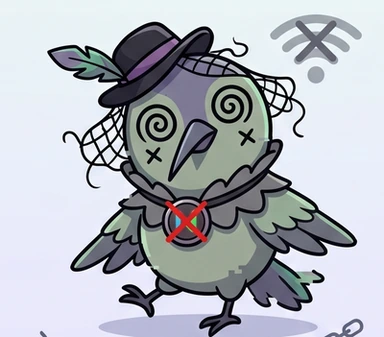
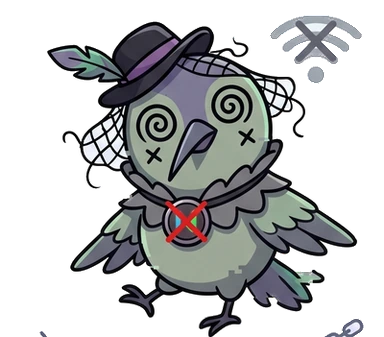
fix(rubri): recortar el fondo de los sprites para el modo oscuro
`happy`, `sad` y `offline` llegaron de diseño opacos, con un fondo pastel claro
y una sombra bajo los pies; solo `neutral` venía recortado. Sobre blanco no se
nota, y sobre el #1A1A16 del tema oscuro tres de los cuatro estados de Rubri
eran un rectángulo pálido y el cuarto no. El estado lo elige el backend y los
cuatro salen del mismo componente, así que la incoherencia aparecía sola al
cambiar de emoción.

`tools/recortar_sprites.py` hace el recorte en tres pasos, y cada uno resuelve
un problema distinto: el fondo es un degradado, así que la inundación compara
cada píxel con su vecino en vez de con un color fijo, y siembra solo desde las
esquinas porque el dibujo toca el borde inferior; la sombra no tiene contorno y
deja un anillo, que se retira contra un ajuste polinómico robusto del degradado
(residuo medio de 1 sobre 255); y el borde suavizado se despeja resolviendo
observado = alfa*trazo + (1-alfa)*fondo, sin lo cual el recorte deja una
aureola clara, que es justo lo que más se ve sobre oscuro.

Los umbrales salen de dos medidas: la inundación se lleva al personaje entero a
partir de 32 y atraviesa los arcos translúcidos del wifi de `offline` a partir
de 24, y el residuo de la sombra frente al fondo predicho es de 16 de mediana
contra 48 en el percentil 10 de esos arcos. De ahí 10 para la inundación y 40
para el crecimiento contra el modelo.

Se conservan opacos los rellenos claros que son dibujo — la malla del velo, el
[…]

diff --git a/tools/recortar_sprites.py b/tools/recortar_sprites.py
@@ -1,0 +1,232 @@
+#!/usr/bin/env python3
+"""Recorta el fondo de los sprites de Rubri y los deja listos para los dos clientes.
+
+Tres de los cuatro sprites llegaron de diseño **opacos**, con un fondo pastel
+claro y una sombra bajo los pies; solo `neutral` venía recortado. En modo claro
+no se notaba, y en modo oscuro tres de los cuatro estados de Rubri se veían
+como un rectángulo pálido y el cuarto no. El estado de Rubri lo elige el
+backend y los cuatro salen del mismo componente, así que la incoherencia
+aparecía sola al cambiar de emoción.
+
+**No es idempotente y no debe serlo**: espera la imagen original opaca de
+diseño y se niega a tocar una que ya tenga transparencia. Volver a pasarlo
+sobre un sprite ya recortado no tendría sentido — el color de un píxel
+transparente no significa nada y la inundación arrancaría desde basura.
+
+    python3 tools/recortar_sprites.py original.png happy
+
+Requiere `numpy`, `scipy` y `Pillow`. Las cifras que justifican cada umbral
+están en `docs/AUDITORIA_RECURSOS.md`; el porqué del recorte, en `docs/RUBRI.md`.
+"""
+from collections import deque
+import sys
+
+import numpy as np
+from PIL import Image
+from scipy import ndimage
+
+# Medido: por encima de 30 la inundación cruza el contorno y se lleva al
+# personaje entero (el fondo salta del 54 % al 95 %). Pero 24 ya atraviesa los
+# arcos del wifi de `offline`, que están dibujados translúcidos sobre el fondo,
+# así que el margen real es mucho más estrecho de lo que sugiere el acantilado.
+TOLERANCIA = 10
+
+# Cuánto puede alejarse del fondo predicho un píxel para que se lo trague el
+# segundo crecimiento. La sombra de `happy` y `sad` está en 16 de mediana y en
+# 34 el percentil 90; los arcos del wifi, en 48 el percentil 10. 40 separa las
+# dos cosas con margen por los dos lados.
+TOLERANCIA_SOMBRA = 40
+
+# Ancho en píxeles de la banda de suavizado donde se estima el alfa.
+BANDA = 3
+
+# Componentes opacos de este tamaño o menos son restos, no dibujo: el
+# garabato suelto más pequeño de `offline` son 29 px.
+MOTA_MAXIMA = 8
+
+
+def _inundar(rgb: np.ndarray, tolerancia: int) -> np.ndarray:
+    """Inundación desde las cuatro esquinas comparando con el vecino.
+
+    Solo desde las esquinas y no desde todo el borde: en `happy` y en `sad` el
+    personaje toca el borde inferior, así que sembrar el borde entero
+    empezaría dentro del dibujo.
+    """
+    h, w, _ = rgb.shape
+    fondo = np.zeros((h, w), bool)
+    a = rgb.astype(np.int16)
+    cola = deque()
+    for y, x in ((0, 0), (0, w - 1), (h - 1, 0), (h - 1, w - 1)):
+        if not fondo[y, x]:
+            fondo[y, x] = True
+            cola.append((y, x))
+    while cola:
+        y, x = cola.popleft()
+        actual = a[y, x]
+        for ny, nx in ((y + 1, x), (y - 1, x), (y, x + 1), (y, x - 1)):
+            if 0 <= ny < h and 0 <= nx < w and not fondo[ny, nx]:
+                if np.abs(a[ny, nx] - actual).max() <= tolerancia:
+                    fondo[ny, nx] = True
+                    cola.append((ny, nx))
+    return fondo
+
+
+def _modelo_de_fondo(rgb: np.ndarray, fondo: np.ndarray, grado: int = 3) -> np.ndarray:
+    """Superficie polinómica que predice el color del fondo en cada punto.
+
+    El ajuste es **robusto**: se repite descartando lo que se aleja más de
+    2,5 sigma, porque la inundación se traga parte de la sombra y esos píxeles
+    tirarían de la superficie hacia abajo justo donde hace falta precisión.
+    Tras converger, el residuo sobre el fondo de verdad es de ~1 sobre 255.
+    """
+    h, w, _ = rgb.shape
+    y, x = np.mgrid[0:h, 0:w]
+    x = x / w
+    y = y / h
+    base = np.stack(
+        [(x**i) * (y**j) for i in range(grado + 1) for j in range(grado + 1 - i)], -1
+    )
+    usar = fondo.copy()
+    pred = np.zeros_like(rgb)
+    for _ in range(6):
+        muestras = base[usar]
+        for c in range(3):
+            coef, *_ = np.linalg.lstsq(muestras, rgb[..., c][usar], rcond=None)
+            pred[..., c] = base @ coef
+        residuo = np.abs(rgb - pred).max(-1)
+        nuevo = fondo & (residuo <= max(2.5 * residuo[usar].std(), 3.0))
+        if nuevo.sum() == usar.sum():
+            break
+        usar = nuevo
+    return pred
+
+
+def _crecer_por_residuo(fondo: np.ndarray, residuo: np.ndarray, tope: float) -> np.ndarray:
+    """Sigue comiendo hacia fuera mientras el píxel siga siendo fondo.
+
+    Es lo que retira el anillo de sombra que la inundación deja atrás: allí el
+    color se aparta del degradado lo justo para frenar la comparación con el
+    vecino, pero sigue estando a menos de 40 del fondo predicho.
+    """
+    h, w = fondo.shape
+    fondo = fondo.copy()
+    cola = deque(zip(*np.where(fondo)))
+    while cola:
+        y, x = cola.popleft()
+        for ny, nx in ((y + 1, x), (y - 1, x), (y, x + 1), (y, x - 1)):
+            if 0 <= ny < h and 0 <= nx < w and not fondo[ny, nx] and residuo[ny, nx] <= tope:
+                fondo[ny, nx] = True
+                cola.append((ny, nx))
+    return fondo
+
+
+def recortar(entrada: str, salida: str) -> dict:
+    rgb = np.asarray(Image.open(entrada).convert("RGB")).astype(np.float64)
+
+    fondo = _inundar(rgb.astype(np.uint8), TOLERANCIA)
+    tras_inundar = fondo.mean()
+
+    pred = _modelo_de_fondo(rgb, fondo)
+    residuo = np.abs(rgb - pred).max(-1)
+    fondo = _crecer_por_residuo(fondo, residuo, TOLERANCIA_SOMBRA)
+
+    # El otro extremo de la rampa de suavizado: lo más oscuro del vecindario
+    # que no sea fondo.
+    sin_fondo = np.where(fondo[..., None], 255.0, rgb)
+    trazo = np.stack(
+        [ndimage.minimum_filter(sin_fondo[..., c], size=7) for c in range(3)], -1
+    )
+    alfa = np.clip(residuo / np.maximum(np.abs(trazo - pred).max(-1), 1.0), 0.0, 1.0)
+
+    # El alfa solo se estima en la banda pegada al fondo. Más adentro el píxel
+    # es opaco: aplicar la fórmula allí volvería translúcido cualquier relleno
+    # claro del dibujo — el blanco del ojo, la malla del velo.
+    banda = ndimage.binary_dilation(fondo, iterations=BANDA) & ~fondo
+    alfa = np.where(fondo, 0.0, np.where(banda, alfa, 1.0))
+
+    # Despejar el color: lo observado es alfa*trazo + (1-alfa)*fondo.
+    seguro = np.maximum(alfa, 1e-3)[..., None]
+    color = np.clip((rgb - (1 - alfa[..., None]) * pred) / seguro, 0, 255)
+    color = np.where(banda[..., None], color, rgb)
+
+    # Motas sueltas: uno o dos píxeles de fondo que sobrevivieron rodeados de
+    # transparencia. No son dibujo —el garabato más pequeño son 29 px— y sobre
+    # el tema oscuro se ven como puntos blancos.
+    etiquetas, cuantos = ndimage.label(alfa > 0.15)
+    if cuantos:
+        tam = np.array(ndimage.sum(np.ones_like(etiquetas), etiquetas, range(1, cuantos + 1)))
+        motas = np.isin(etiquetas, np.where(tam <= MOTA_MAXIMA)[0] + 1)
+        alfa = np.where(motas, 0.0, alfa)
+
+    Image.fromarray(
+        np.dstack([color, alfa * 255.0]).round().astype(np.uint8), "RGBA"
+    ).save(salida)
+    return {"inundacion": tras_inundar, "final": (alfa == 0).mean()}
+
+
+def exportar(entrada: str, salida: str, lado_maximo: int, calidad: int = 92) -> None:
+    """Redimensiona y guarda en WebP.
+
+    Premultiplica antes de escalar: el color de un píxel transparente no
+    significa nada, y al interpolarlo con sus vecinos opacos tiñe el borde. Es
+    la aureola que se acaba de quitar a mano, reintroducida por el escalado.
+    """
+    im = np.asarray(Image.open(entrada).convert("RGBA")).astype(np.float64)
+    a = im[..., 3:4] / 255.0
+    premultiplicado = Image.fromarray(
+        np.dstack([im[..., :3] * a, im[..., 3]]).round().astype(np.uint8), "RGBA"
+    )
+    h, w = im.shape[:2]
+    escala = lado_maximo / max(h, w)
+    if escala < 1:
+        premultiplicado = premultiplicado.resize(
+            (round(w * escala), round(h * escala)), Image.LANCZOS
+        )
+
+    q = np.asarray(premultiplicado).astype(np.float64)
+    a = np.maximum(q[..., 3:4] / 255.0, 1e-6)
+    color = np.clip(q[..., :3] / a, 0, 255)
+    Image.fromarray(
+        np.dstack([color, q[..., 3]]).round().astype(np.uint8), "RGBA"
+    ).save(salida, format="WEBP", quality=calidad, method=6)
+
+
+# Los dos clientes llevan copia de los mismos sprites.
+DESTINOS = (
+    "flutter_app/assets/rubri",
+    "desktop/src/assets/rubri",
+)
+
+# 384 px es 3x los 128 dp a los que el asistente del móvil dibuja el sprite más
+# grande, y 2,4x los 160 px del escritorio.
+LADO = 384
+
+
+def main(argv: list[str]) -> int:
+    import tempfile
+    from pathlib import Path
+
+    if len(argv) != 3:
+        print(__doc__)
+        return 2
+    entrada, nombre = argv[1], argv[2]
+
+    if "A" in Image.open(entrada).getbands():
+        alfa = np.asarray(Image.open(entrada).convert("RGBA"))[..., 3]
+        if (alfa < 255).any():
+            print(f"{entrada} ya tiene transparencia; se esperaba el original opaco.")
+            return 1
+
+    with tempfile.TemporaryDirectory() as tmp:
+        recortado = str(Path(tmp) / "recortado.png")
+        info = recortar(entrada, recortado)
+        for destino in DESTINOS:
+            salida = str(Path(destino) / f"{nombre}.webp")
+            exportar(recortado, salida, LADO)
+            print(f"  {salida}  ({Path(salida).stat().st_size // 1024} KB)")
+        print(f"  fondo retirado: {info['final'] * 100:.1f}% de la imagen")
+    return 0
+
+
+if __name__ == "__main__":
+    raise SystemExit(main(sys.argv))

diff --git a/docs/AUDITORIA_RECURSOS.md b/docs/AUDITORIA_RECURSOS.md
@@ -14,8 +14,8 @@ gasta batería»: se desinstala.
 
 | | Antes | Después |
 |---|---|---|
-| Recursos empaquetados en el móvil | 2,96 MB | 0,52 MB |
-| Recursos empaquetados en el escritorio | 1,36 MB | 0,11 MB |
+| Recursos empaquetados en el móvil | 2,96 MB | 0,54 MB |
+| Recursos empaquetados en el escritorio | 1,36 MB | 0,13 MB |
 | `desktop/dist` completo | 3,6 MB | 2,4 MB |
 | Mapa de bits residente por logo | 4,0 MiB | ~0,3 MiB |
 | Intentos de conexión en segundo plano | cada 5 s, indefinidamente | ninguno |
@@ -113,6 +113,56 @@ Y en el móvil se pasa `cacheWidth`/`cacheHeight` con
 Flutter guarda el mapa de bits del **archivo**, no el del tamaño al que se
 dibuja, así que el sprite de 384 px pintado a 40 dp seguía ocupando 512 KB.
 
+## R3b · Tres de los cuatro sprites tenían el fondo pegado
+
+Salió al convertirlos a WebP y no es de rendimiento, pero se arregló con las
+mismas herramientas y en el mismo sitio, así que queda aquí.
+
+`happy`, `sad` y `offline` eran PNG **opacos**: fondo pastel claro y sombra
+bajo los pies. Solo `neutral` venía recortado. Sobre blanco no se nota; sobre
+el `#1A1A16` del tema oscuro, tres de los cuatro estados de Rubri eran un
+rectángulo pálido y el cuarto no — y el estado lo elige el backend, así que la
+incoherencia aparecía sola al cambiar de emoción.
+
+`tools/recortar_sprites.py` lo resuelve en tres pasos, y cada uno hace falta:
+
+- **Inundación comparando con el vecino, no con un color fijo.** El fondo es un
+  degradado: un umbral global se queda corto en una esquina o se come al
+  personaje en la otra. Píxel a píxel el degradado avanza de uno en uno y el
+  salto al contorno negro es de más de cien. Se siembra solo desde las cuatro
+  esquinas porque en `happy` y en `sad` el dibujo toca el borde inferior.
+- **Un modelo del degradado para retirar la sombra.** La sombra no tiene
+  contorno: la inundación entra en ella pero deja un anillo donde la pendiente
+  se acentúa. Un ajuste polinómico robusto —descartando lo que se aparta más de
+  2,5 sigma, porque la inundación ya se tragó parte de la sombra y esos píxeles
+  tirarían del ajuste— predice el fondo con un residuo medio de 1 sobre 255, y
+  con eso el anillo se retira comparando contra el fondo predicho.
+- **Despejar el alfa y el color en el borde.** El contorno está suavizado contra
+  el fondo. Sin resolver `observado = alfa*trazo + (1-alfa)*fondo`, el recorte
+  deja una aureola clara — que es precisamente lo que más se ve sobre oscuro,
+  o sea lo contrario de lo que se venía a arreglar.
+
+Dos números que fijan los umbrales, por si hay que retocarlos:
+
+| | Medida |
+|---|---|
+| Tolerancia a la que la inundación se lleva al personaje entero | 32 (el fondo salta del 54 % al 95 %) |
+| Tolerancia a la que atraviesa los arcos translúcidos del wifi | 24 |
+| Residuo de la sombra frente al fondo predicho | mediana 16, p90 34 |
+| Residuo de los arcos del wifi | p10 48 |
+
+De ahí salen los dos valores: inundación a **10** y crecimiento contra el
+modelo a **40**, que separa sombra de arcos con margen por los dos lados.
+
+**Lo que no se toca son los rellenos claros que son dibujo.** El velo del
+sombrero es una malla blanca, el icono de wifi es gris translúcido y el brillo
+de los ojos es blanco. Los tres se ven bien sobre cualquier fondo, y el
+recorte los conserva opacos: lo que estaba mal era el rectángulo, no que el
+dibujo tenga partes claras. Un intento anterior de vaciar además las bolsas de
+fondo encerradas —las celdas de la malla— no tenía un umbral que las separara
+del blanco de los ojos, y se descartó: media malla transparente y media opaca
+se ve peor que la malla entera.
+
 ## R4 · El chat se rompía en la pregunta 11
 
 Salió buscando ancho de banda y resultó ser un defecto de funcionamiento.
@@ -190,7 +240,11 @@ Conviene dejarlo escrito para que nadie lo «arregle»:
 2. **Una imagen nueva va en WebP y dimensionada a lo que se dibuja.** Un PNG de
    cámara o de exportación de diseño ronda el megabyte.
 3. **`Image.asset` sin `cacheWidth` es un descuido**, no una variante.
-4. **Una hoja o una pantalla nueva no abre su propia conexión de tiempo real.**
+4. **Un sprite nuevo se mira sobre el fondo oscuro del tema antes de
+   commitearlo**, no solo sobre blanco. Es la comprobación que faltó la primera
+   vez y por eso tres de los cuatro estados de Rubri llegaron con el fondo
+   pegado.
+5. **Una hoja o una pantalla nueva no abre su propia conexión de tiempo real.**
    Hay una y la gestiona el ciclo de vida de la aplicación.
-5. **Una lista de datos va con `.builder`.** Con `children` no falla nada
+6. **Una lista de datos va con `.builder`.** Con `children` no falla nada
    visible: solo se construye diez veces más de lo que se ve.

diff --git a/docs/RUBRI.md b/docs/RUBRI.md
@@ -105,6 +105,31 @@ Los componentes respetan reducción de movimiento. La animación es un balanceo
 leve; no altera la identidad del personaje. La emoción se selecciona mediante
 el valor semántico `neutral | happy | sad | offline` devuelto por el backend.
 
+### Los cuatro sprites van recortados, sin fondo y sin sombra
+
+Es un requisito, no una preferencia. `happy`, `sad` y `offline` llegaron de
+diseño **opacos**, con un fondo pastel claro y una sombra bajo los pies; solo
+`neutral` venía recortado. En modo claro no se notaba. En modo oscuro tres de
+los cuatro estados se veían como un rectángulo pálido y el cuarto no, y como el
+estado lo elige el backend y los cuatro salen del mismo componente, la
+incoherencia aparecía sola al cambiar de emoción.
+
+`tools/recortar_sprites.py` hace el recorte a partir del original opaco y
+escribe en los dos clientes. **No es idempotente y se niega a tocar una imagen
+que ya tenga transparencia**: el color de un píxel transparente no significa
+nada, así que volver a pasarlo sobre un sprite ya recortado arrancaría desde
+basura.
+
+Si diseño entrega un sprite nuevo:
+
+1. Pásalo por el script antes de commitearlo.
+2. Míralo sobre el fondo oscuro del tema (`#1A1A16`), no solo sobre blanco. Es
+   la comprobación que faltó la primera vez.
+3. **Las partes claras del dibujo se quedan opacas.** El velo del sombrero es
+   una malla blanca, el icono de wifi es gris y el brillo de los ojos es
+   blanco; los tres se ven bien sobre cualquier fondo. Lo que había que quitar
+   era el rectángulo, no todo lo que fuera claro.
+
 ## Agregar una intención
 
 1. Añadir frases variadas al dataset, sin datos personales.

diff --git a/AGENTS.md b/AGENTS.md
@@ -591,7 +591,15 @@ En los dos casos el índice existe para no romper los sitios que ya importaban d
   Rubri eran PNG de ~190 KB cada uno, que es el formato equivocado para una
   ilustración con degradados (el PNG optimizado sale *más grande*). En WebP con
   calidad 92 el alfa se conserva exacto y el error de color es de ~2 sobre 255.
-  Los cinco archivos pasaron de 1,39 MB a 109 KB **en cada cliente**.
+  Los cinco archivos pasaron de 1,39 MB a 114 KB **en cada cliente**.
+- **Los cuatro sprites de Rubri van recortados, sin fondo ni sombra.** Tres
+  llegaron de diseño opacos, con un fondo pastel: en modo claro no se nota y en
+  oscuro eran un rectángulo pálido, mientras el cuarto —`neutral`, el único que
+  venía recortado— se veía bien. Como el estado lo elige el backend y los cuatro
+  salen del mismo componente, la incoherencia aparecía al cambiar de emoción.
+  `tools/recortar_sprites.py` hace el recorte y **se niega a tocar una imagen
+  que ya tenga transparencia**. Un sprite nuevo se mira sobre `#1A1A16` antes de
+  commitearlo; sobre blanco este fallo es invisible.
 - Los gráficos de escritorio leen los tokens en vivo y se repintan al cambiar de tema; no les pases colores fijos.
 
 ## Variables de entorno — trampas conocidas

diff --git a/CLAUDE.md b/CLAUDE.md
@@ -591,7 +591,15 @@ En los dos casos el índice existe para no romper los sitios que ya importaban d
   Rubri eran PNG de ~190 KB cada uno, que es el formato equivocado para una
   ilustración con degradados (el PNG optimizado sale *más grande*). En WebP con
   calidad 92 el alfa se conserva exacto y el error de color es de ~2 sobre 255.
-  Los cinco archivos pasaron de 1,39 MB a 109 KB **en cada cliente**.
+  Los cinco archivos pasaron de 1,39 MB a 114 KB **en cada cliente**.
+- **Los cuatro sprites de Rubri van recortados, sin fondo ni sombra.** Tres
+  llegaron de diseño opacos, con un fondo pastel: en modo claro no se nota y en
+  oscuro eran un rectángulo pálido, mientras el cuarto —`neutral`, el único que
+  venía recortado— se veía bien. Como el estado lo elige el backend y los cuatro
+  salen del mismo componente, la incoherencia aparecía al cambiar de emoción.
+  `tools/recortar_sprites.py` hace el recorte y **se niega a tocar una imagen
+  que ya tenga transparencia**. Un sprite nuevo se mira sobre `#1A1A16` antes de
+  commitearlo; sobre blanco este fallo es invisible.
 - Los gráficos de escritorio leen los tokens en vivo y se repintan al cambiar de tema; no les pases colores fijos.
 
 ## Variables de entorno — trampas conocidas
